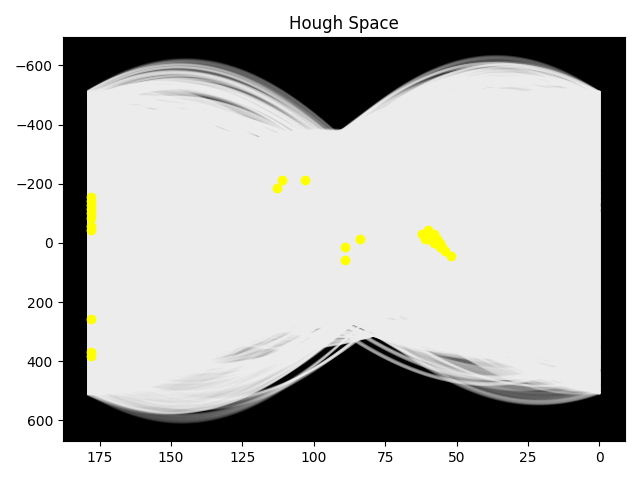
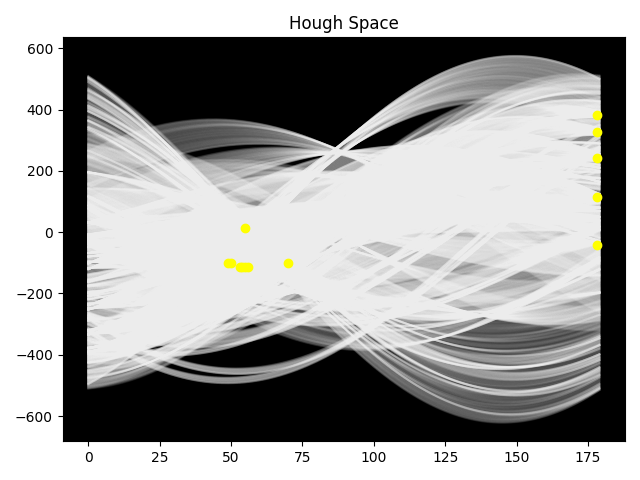
code finish

diff --git a/codes/hough.py b/codes/hough.py
@@ -116,7 +116,8 @@ def line_detection_vectorized(image, edge_image, num_rhos=180, num_thetas=180, t
 
 if __name__ == '__main__':
     # img = np.array(Image.open('./data/input/arch.png').convert('L'))
-    img = np.array(Image.open('./data/input/house.jpg').convert('L'))
+    # img = np.array(Image.open('./data/input/house.jpg').convert('L'))
     # img = np.array(Image.open('./data/input/merton.jpg').convert('L'))
+    img = np.array(Image.open('./data/input/liberty.jpg').convert('L'))
     edges = feature.canny(img, sigma=5)
-    line_detection_vectorized(img, edges, threshold=600)
+    line_detection_vectorized(img, edges, threshold=250)
